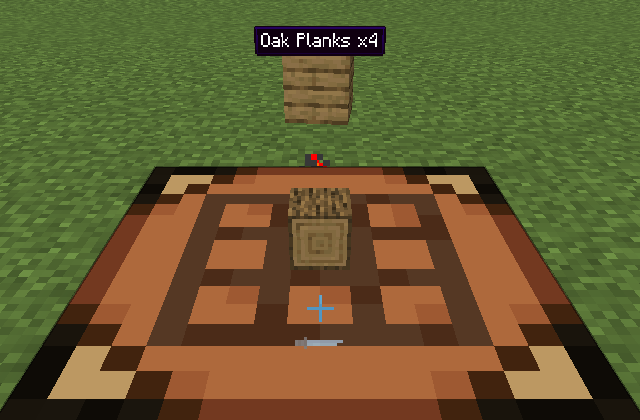
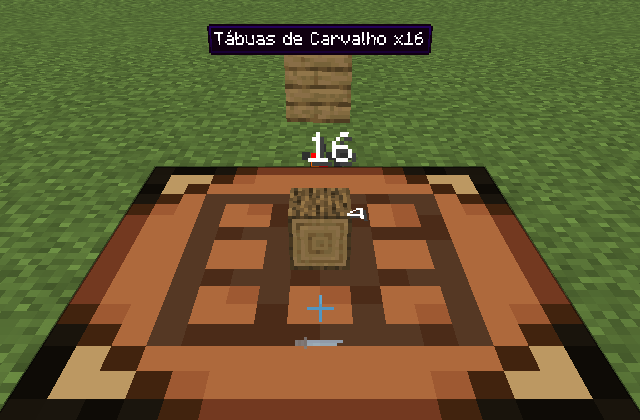
Docs: fotos da mesa com as quantidades e da mira do arco

diff --git a/docs/DESIGN.md b/docs/DESIGN.md
@@ -225,6 +225,8 @@ Com o HandsOn, **o arco fica na mão que o pegou, e a flecha aparece na outra**:
 
 ### Mira do arco (opcional)
 
+![A mira do jogo na parede, onde a flecha vai acertar](img/mira-do-arco.png)
+
 Nos ajustes, "Mira do arco" (desligada por padrão). Ligada, com a corda puxada, a mira do jogo (`hud/crosshair`) aparece no ponto em que a flecha vai acertar. A conta segue o jogo com o arco do Vivecraft:
 
 - a flecha sai da mão que puxa a corda, na direção dela para a mão do arco;
